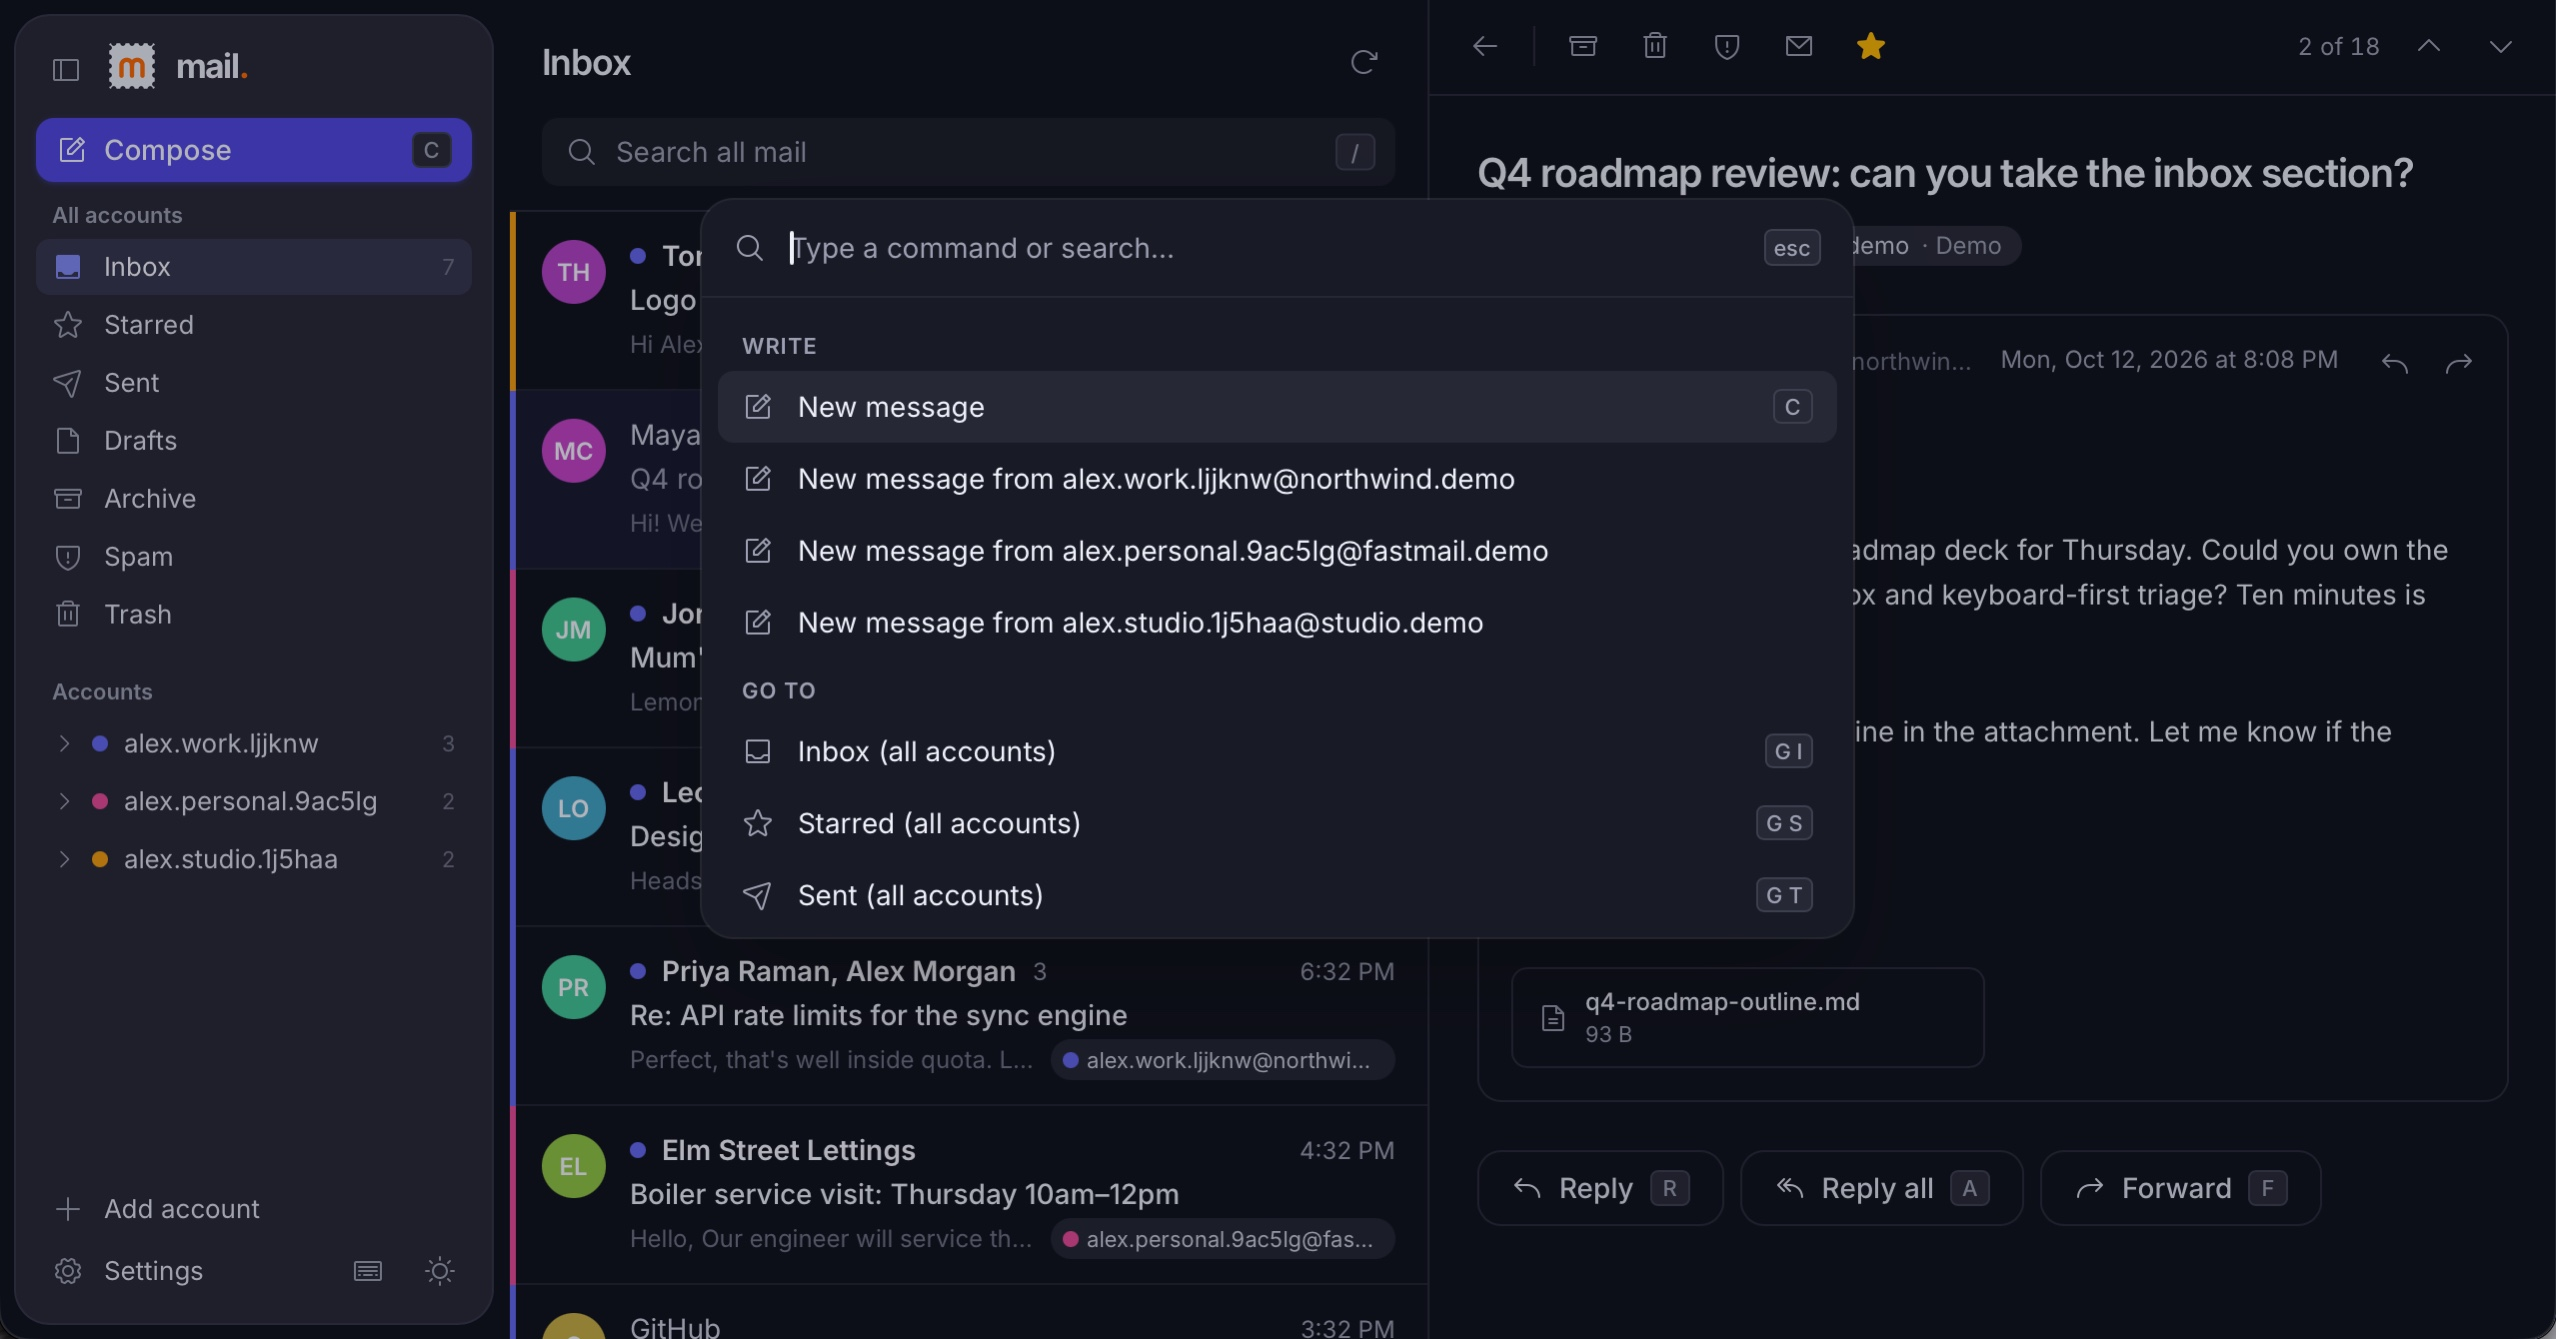
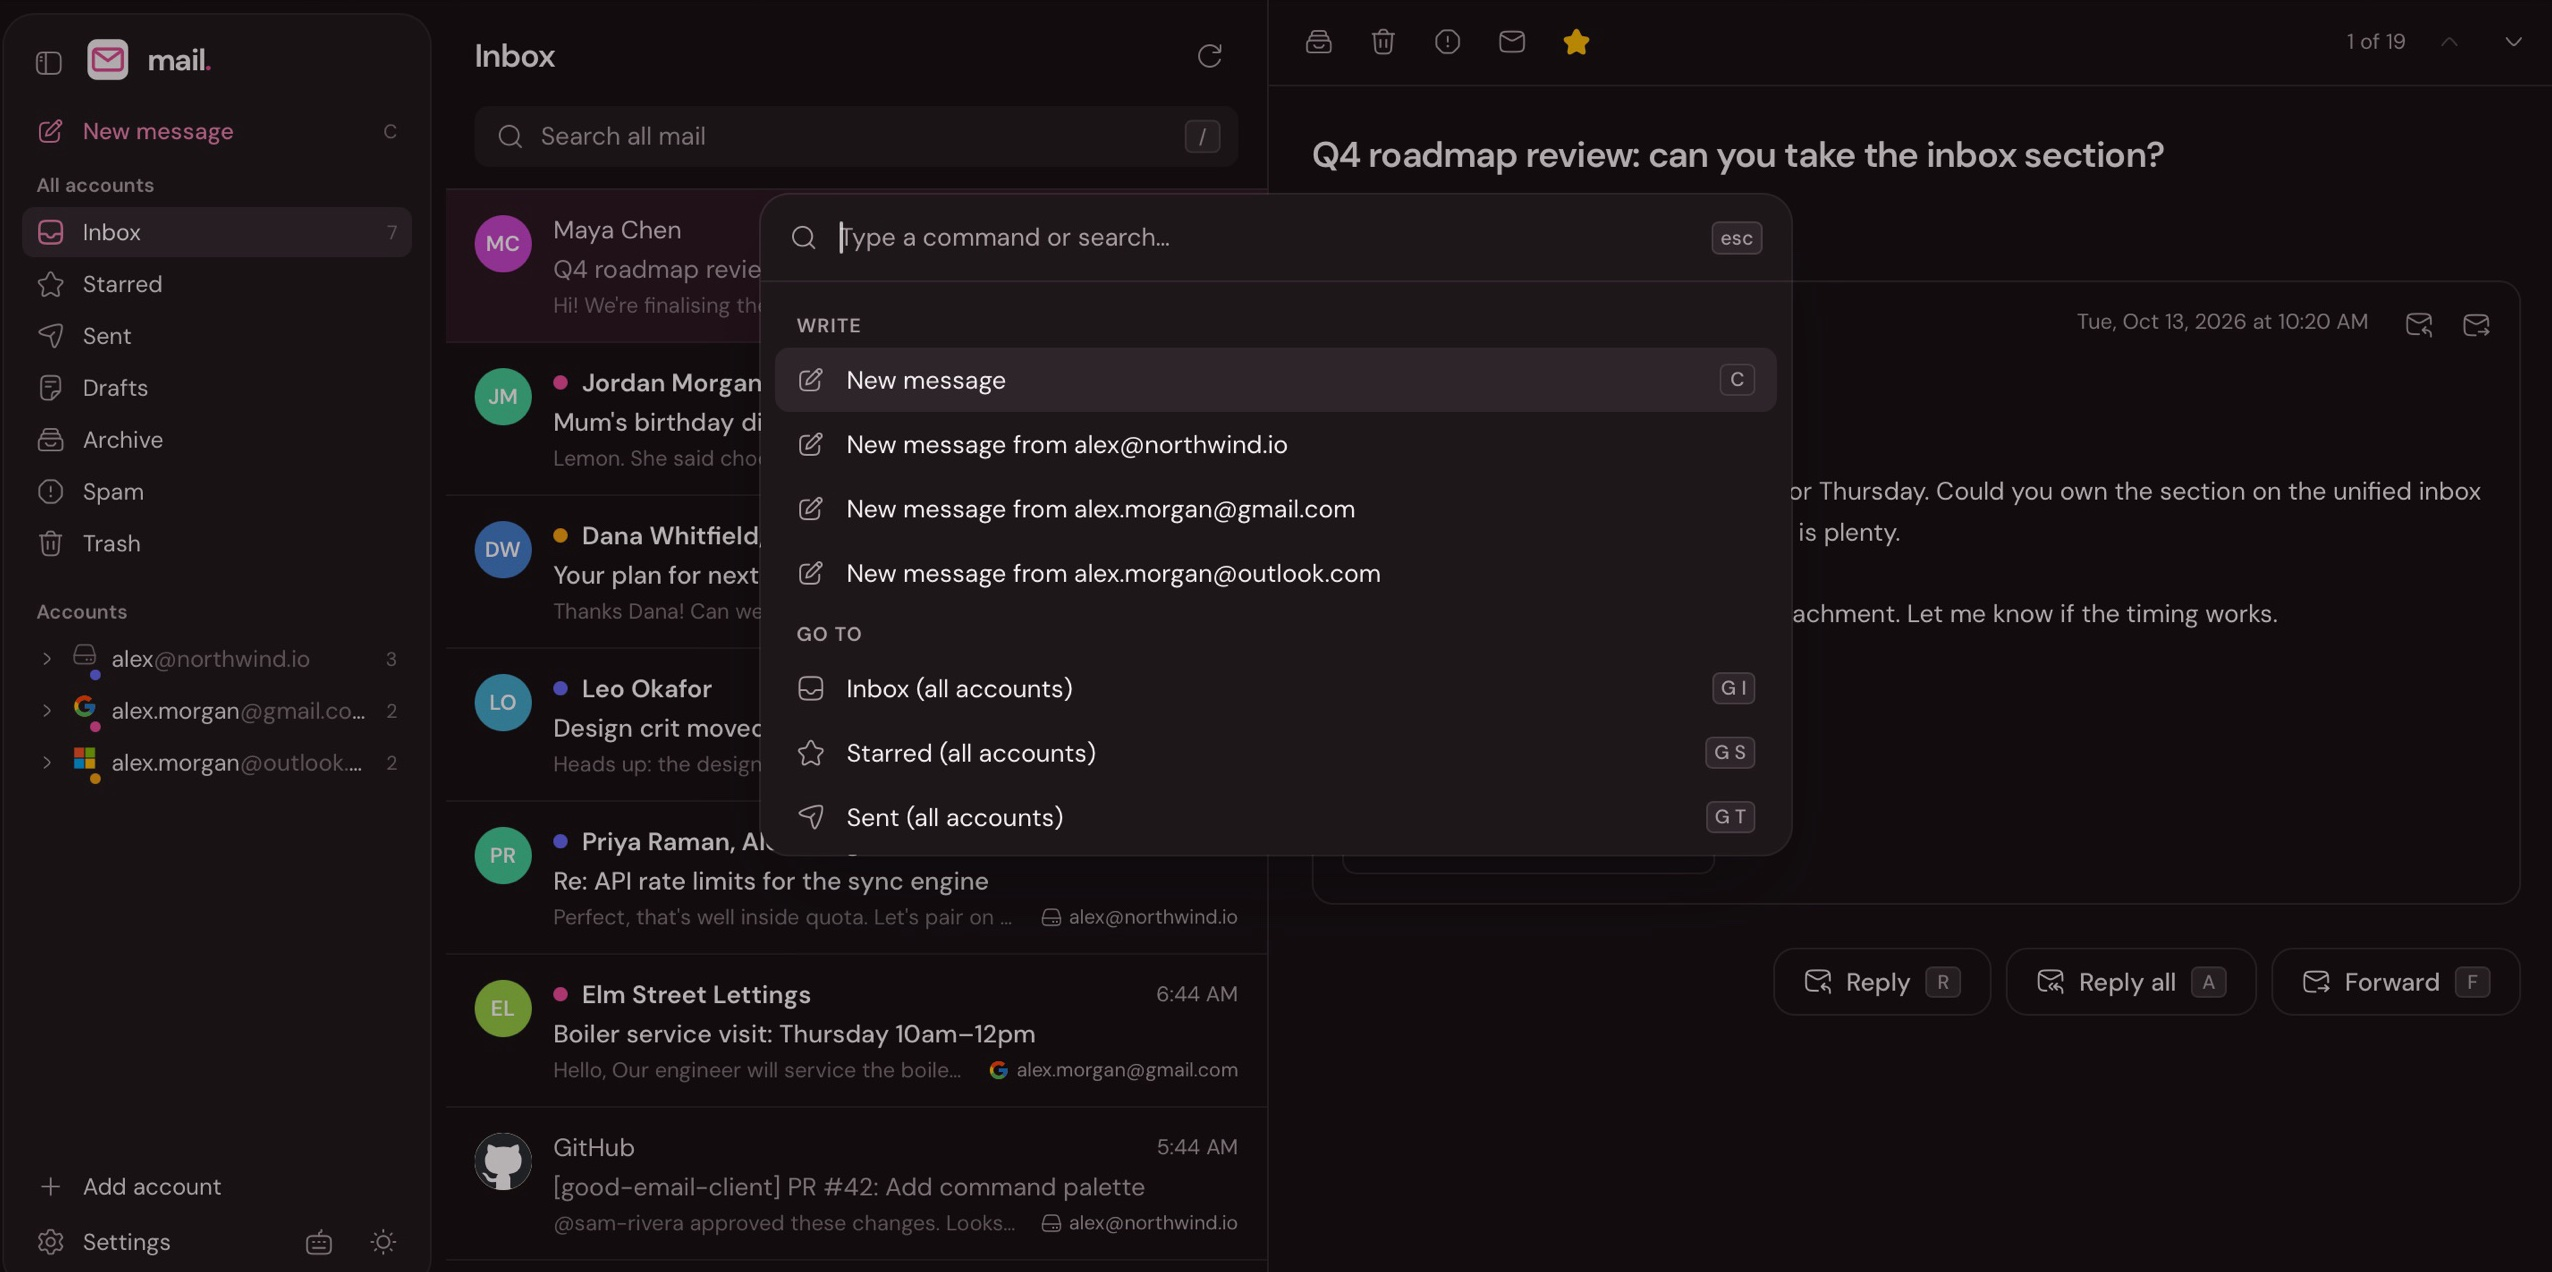
Refresh the screenshots, and add a screenshot of the color themes

diff --git a/README.md b/README.md
@@ -8,6 +8,8 @@ A keyboard-first email client with one inbox for all your accounts.
 
 ![The light theme](docs/screenshots/light.jpg)
 
+![The color themes in Settings](docs/screenshots/themes.jpg)
+
 ```sh
 pnpm install
 cp .env.example .env
